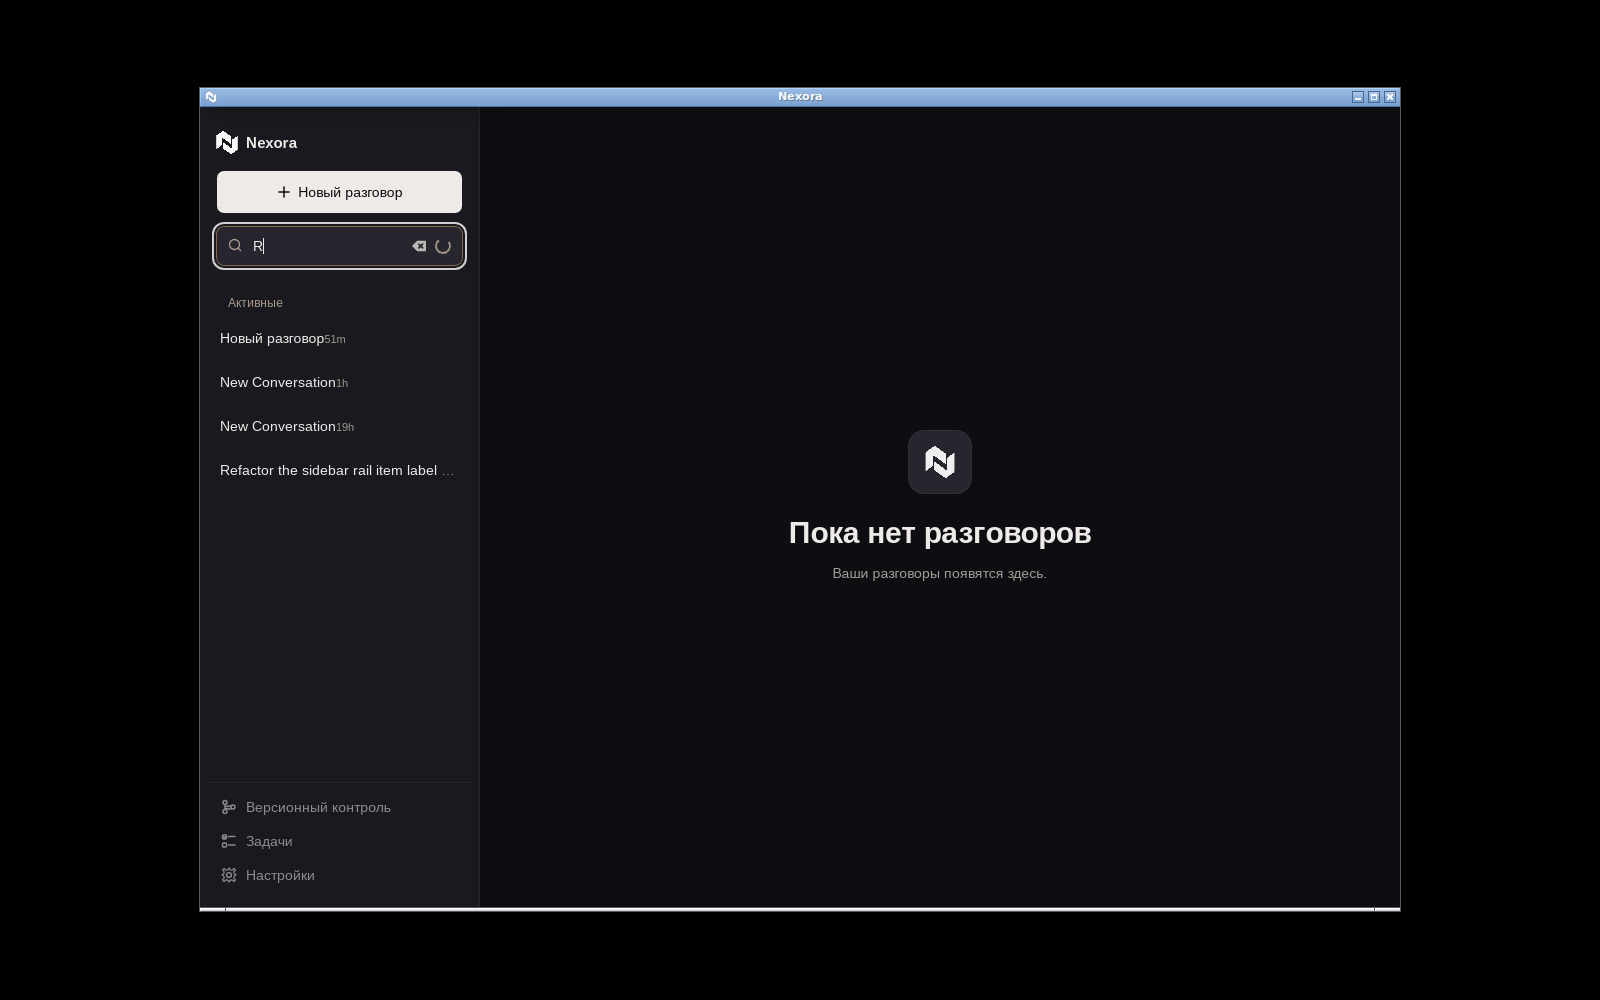
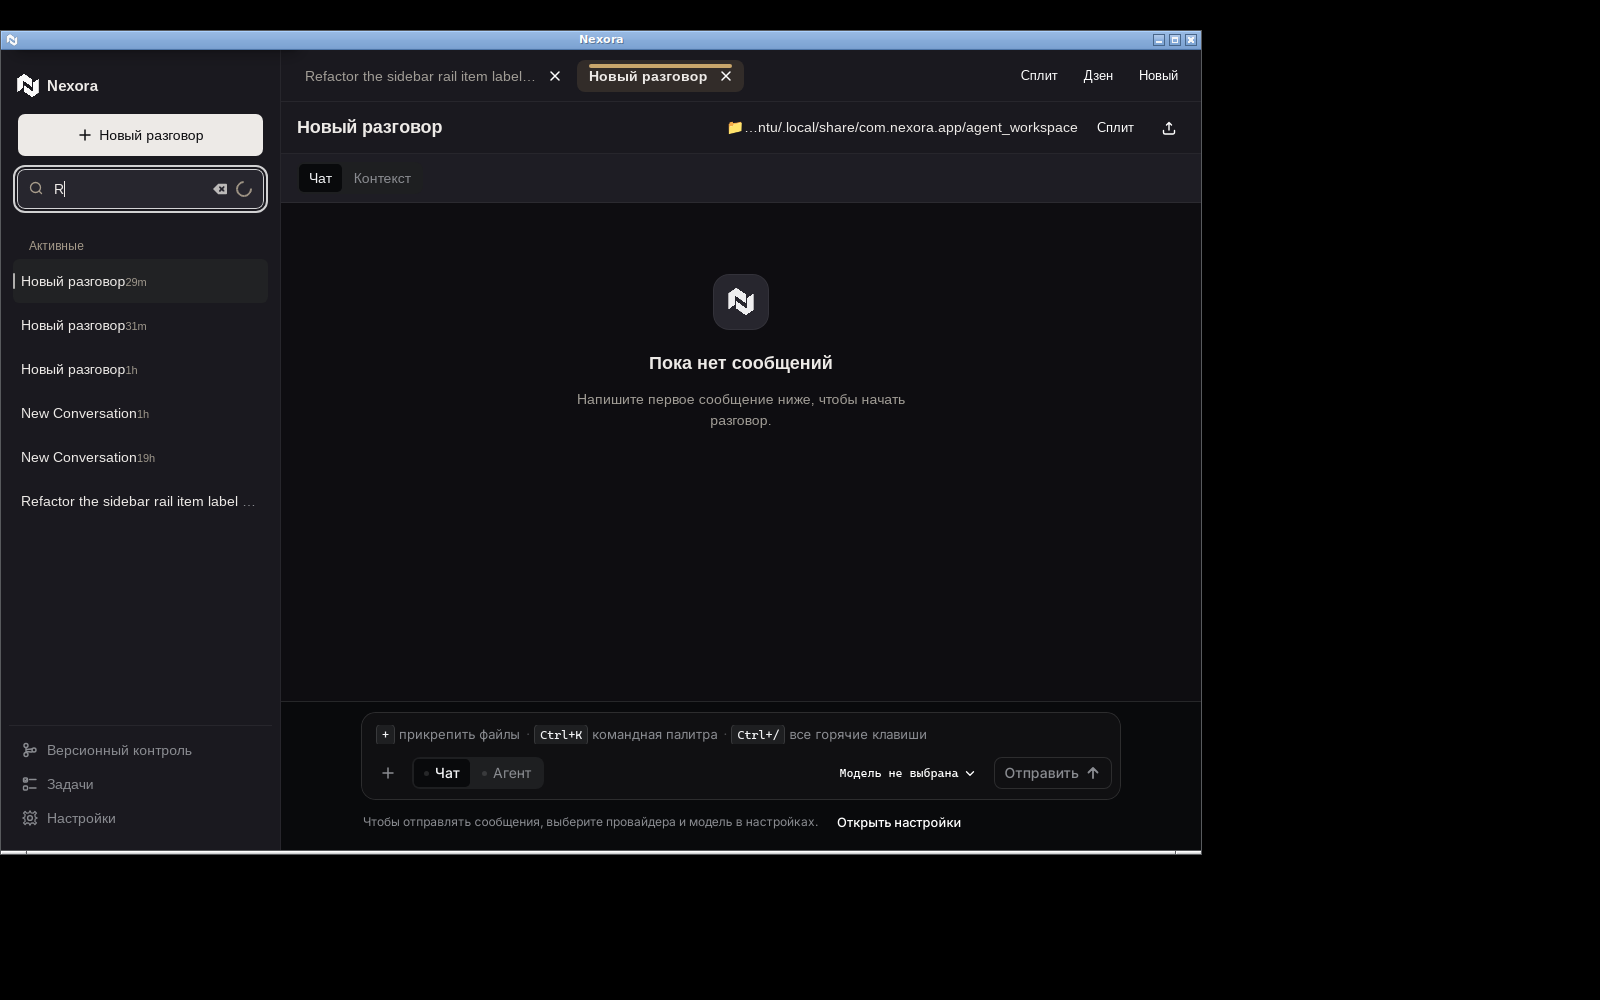
fix(#235): reviewer round 2 — chromatic focus sweep, genuine results + settings + selection shots
F2: repoint the six residual M3E focus carriers at var(--ring)
2px + 2px offset (components field/search borders, rename/composer
outline, kanban drop-target, vcs diff scroll); resting rename border
to neutral hairline. Whole-tree :focus/outline sweep: zero chromatic
focus chrome outside --state-*.
F1: 03-search-results re-shot with real FTS row (query Refactor);
empty-with-query renamed honestly + re-shot on fixed build.
F5: 10-overlay-settings re-shot with Settings overlay actually open;
06-selection-wash re-shot with real triple-click selection.
Suggestions: button.tsx 5.88:1; audit.py window-tight crop + --scan;
composer stale WARM comment corrected.

diff --git a/src/styles/conversation.css b/src/styles/conversation.css
@@ -175,7 +175,9 @@
   padding: 8px var(--nex-sys-space-sm);
   border-radius: var(--nex-sys-shape-small);
   background: var(--nex-sys-color-surface-nested);
-  border: 1px solid var(--nex-sys-focus-field-color);
+  /* Resting border is a neutral hairline (#235: the amber field tint
+     lived here at rest, not just on focus). */
+  border: 1px solid var(--nex-sys-color-outline-variant);
   color: var(--nex-sys-color-on-surface);
   font-size: var(--nex-sys-type-size-body-medium);
   outline: none;
@@ -190,11 +192,11 @@
    shared with Version Control's commit box and was moved out
    along with the shared `.nex-composer-input` paint. The
    composer's OWN field opts back out one selector deeper, in
-   composer.css: its focus moment is the container's accent seam. */
+   composer.css: its focus moment is the container's light seam. */
 .nex-conversation-rename-input:focus-visible,
 .nex-composer-input:focus-visible {
-  outline: var(--nex-sys-focus-ring-width) solid var(--nex-sys-focus-ring-color);
-  outline-offset: var(--nex-sys-focus-ring-offset);
+  outline: 2px solid var(--ring);
+  outline-offset: 2px;
 }
 
 /* ---- Text field: the composer AND the Version Control commit box ----

diff --git a/src/styles/components.css b/src/styles/components.css
@@ -361,7 +361,9 @@
 .nex-input:focus,
 .nex-select:focus,
 .nex-textarea:focus {
-  border-color: var(--nex-sys-focus-field-color);
+  /* THEME §1 (mono, #235): the focus signal is the theme ring, not
+     the M3E amber field tint. */
+  border-color: var(--ring);
   background: var(--nex-sys-color-surface-container-high);
 }
 
@@ -427,9 +429,11 @@
   /* Focus deepens to the SAME step hover does, it does not snap the
      fill back to the nested tier underneath the pointer (an earlier
      build did, so moving the mouse onto a focused field visibly
-     reversed a full tier). The accent border is the focus signal. */
+     reversed a full tier). The theme ring is the focus signal
+     (THEME §1, mono — #235 repoints the old amber border here;
+     the 2px ring itself lives on :focus-visible above). */
   background: var(--nex-sys-color-surface-container-high);
-  border-color: var(--nex-sys-focus-field-color);
+  border-color: var(--ring);
   outline: none;
 }
 

diff --git a/src/styles/composer.css b/src/styles/composer.css
@@ -232,9 +232,9 @@
 
 /* The M3E primitives the composer reuses (`.nex-seg` pills, the
    chip's `.nex-icon-btn` remove) carry the app-wide focus ring from
-   theme.css, which is a WARM 1px outline — invisible against a
-   near-black composer and wrong beside the shadcn buttons' white
-   ring. Re-pointed at the mono theme, and only inside the
+   theme.css, which is a flat outline with no offset gap — invisible
+   against a near-black composer and wrong beside the shadcn buttons'
+   gapped white ring. Re-pointed at the mono theme, and only inside the
    composer: 2px solid at 80% over a 2px background-colour gap
    (the THEME §1 ring, spelled as two shadows because plain CSS
    has no ring-offset), so one keyboard pass moves through the

diff --git a/src/components/ui/button.tsx b/src/components/ui/button.tsx
@@ -46,7 +46,8 @@ const buttonVariants = cva(
         // and darkens on press (#D8D4CE). Disabled is muted text
         // with NO fill and a hairline border (THEME §1) — never a
         // washed-out fill: `disabled:opacity-100` cancels the base
-        // wash via tailwind-merge, so the text keeps its 5.64:1.
+        // wash via tailwind-merge, so the text keeps its 5.88:1
+        // (muted on the canvas) instead of being faded twice.
         default:
           "bg-primary text-primary-foreground hover:bg-primary-hover active:bg-primary-pressed disabled:border-border disabled:bg-transparent disabled:text-muted-foreground disabled:opacity-100",
         outline:

diff --git a/src/styles/tasks.css b/src/styles/tasks.css
@@ -25,7 +25,10 @@
 }
 
 .nex-kanban-column.is-drop-target {
-  outline: 2px solid var(--nex-sys-color-primary);
+  /* THEME §1 (mono, #235): the drop signal is the theme ring, not
+     the M3E amber. The -2px inset is geometry (inside the column
+     frame), kept. */
+  outline: 2px solid var(--ring);
   outline-offset: -2px;
 }
 

diff --git a/src/styles/versionControl.css b/src/styles/versionControl.css
@@ -143,7 +143,8 @@
   border-radius: var(--nex-sys-shape-extra-small);
 }
 .nex-vcs-diff-scroll:focus-visible {
-  outline: 2px solid var(--nex-sys-color-primary);
+  /* THEME §1 (mono, #235): 2px theme ring + 2px offset. */
+  outline: 2px solid var(--ring);
   outline-offset: 2px;
 }
 

diff --git a/docs/visual-proof/235/audit.py b/docs/visual-proof/235/audit.py
@@ -25,34 +25,81 @@ import subprocess
 import sys
 
 # The app's client area starts below openbox's title bar, which paints a
-# light-blue (#ADD3FF) band ~19px tall at y=88..106 on this 1600x1000
-# screen. The crop below starts at 120 so no row of the title bar can
-# reach the measurement. Verified by running the row-scan in the PR body.
-APP_CROP = "1600x880+0+120"
+# light-blue (#ADD3FF) band ~19px tall at y=88..106 on a 1600x1000
+# screen. Each frame is first cropped to the client area (title bar off
+# the top, Xvfb dead space off the right and bottom), then the crop is
+# SELF-JUSTIFIED by a per-row, per-column scan: the script finds the
+# bounding box of rows/columns that are not pure black and reports it,
+# so a reader can see the measurement covers the window and nothing
+# else. Run the scan verbosely with `--scan` to print every frame's
+# detected box.
+SCAN_TOP_MARGIN = 120  # never above the title bar's last blue row (106)
 
 
-def load(path):
-    return subprocess.run(
-        ["convert", path, "-crop", APP_CROP, "+repage", "-depth", "8", "rgb:-"],
-        capture_output=True,
+def frame_box(raw, width, height):
+    """Bounding box of rows/columns that are not pure black.
+
+    Returns (x0, y0, x1, y1) in frame coordinates. Pure black is the
+    Xvfb backdrop on this rig, never the app (the canvas is #101014
+    at its darkest), so the box is the window and only the window.
+    """
+    top = SCAN_TOP_MARGIN
+    bottom = height
+    for y in range(SCAN_TOP_MARGIN, height):
+        base = y * width * 3
+        if any(raw[base : base + width * 3]):
+            top = y
+            break
+    for y in range(height - 1, SCAN_TOP_MARGIN - 1, -1):
+        base = y * width * 3
+        if any(raw[base : base + width * 3]):
+            bottom = y + 1
+            break
+    left = 0
+    right = width
+    for x in range(width):
+        if any(raw[(y * width + x) * 3] for y in range(top, bottom)):
+            left = x
+            break
+    for x in range(width - 1, -1, -1):
+        if any(raw[(y * width + x) * 3] for y in range(top, bottom)):
+            right = x + 1
+            break
+    return (left, top, right, bottom)
+
+
+def load_frame(path):
+    out = subprocess.run(
+        ["convert", path, "-depth", "8", "rgb:-"], capture_output=True
     ).stdout
+    # Frame size comes from the file itself, not from an assumption.
+    info = subprocess.run(
+        ["identify", "-format", "%w %h", path], capture_output=True, text=True
+    ).stdout.split()
+    return out, int(info[0]), int(info[1])
 
 
-def audit(path):
-    raw = load(path)
-    total = len(raw) // 3
+def audit(path, verbose=False):
+    raw, width, height = load_frame(path)
+    box = frame_box(raw, width, height)
+    x0, y0, x1, y1 = box
+    if verbose:
+        print(f"  box {os.path.basename(path)}: x {x0}..{x1} y {y0}..{y1}")
     blue = amber = tint = 0
-    for i in range(0, len(raw) - 2, 3):
-        r8, g8, b8 = raw[i], raw[i + 1], raw[i + 2]
-        r, g, b = r8 / 255, g8 / 255, b8 / 255
-        if max(r8, g8, b8) - min(r8, g8, b8) > 24:
-            tint += 1
-        h, s, v = colorsys.rgb_to_hsv(r, g, b)
-        if s > 0.25 and v > 0.15:
-            if 195 <= h * 360 <= 275:
-                blue += 1
-            else:
-                amber += 1
+    total = (x1 - x0) * (y1 - y0)
+    for y in range(y0, y1):
+        for x in range(x0, x1):
+            i = (y * width + x) * 3
+            r8, g8, b8 = raw[i], raw[i + 1], raw[i + 2]
+            r, g, b = r8 / 255, g8 / 255, b8 / 255
+            if max(r8, g8, b8) - min(r8, g8, b8) > 24:
+                tint += 1
+            h, s, v = colorsys.rgb_to_hsv(r, g, b)
+            if s > 0.25 and v > 0.15:
+                if 195 <= h * 360 <= 275:
+                    blue += 1
+                else:
+                    amber += 1
     return total, blue, amber, tint
 
 
@@ -61,10 +108,11 @@ def main():
     shots = sorted(glob.glob(os.path.join(here, "*.png")))
     if not shots:
         sys.exit("no shots found next to this script")
+    verbose = "--scan" in sys.argv
     print(f"{'shot':32s} {'px':>9s} {'blue':>6s} {'amber':>7s} {"tint spread>24":>16s}")
     worst_blue = worst_amber = worst_tint = 0.0
     for shot in shots:
-        total, blue, amber, tint = audit(shot)
+        total, blue, amber, tint = audit(shot, verbose)
         name = os.path.basename(shot)
         print(
             f"{name:32s} {total:9d} {blue:6d} {amber:7d} "
